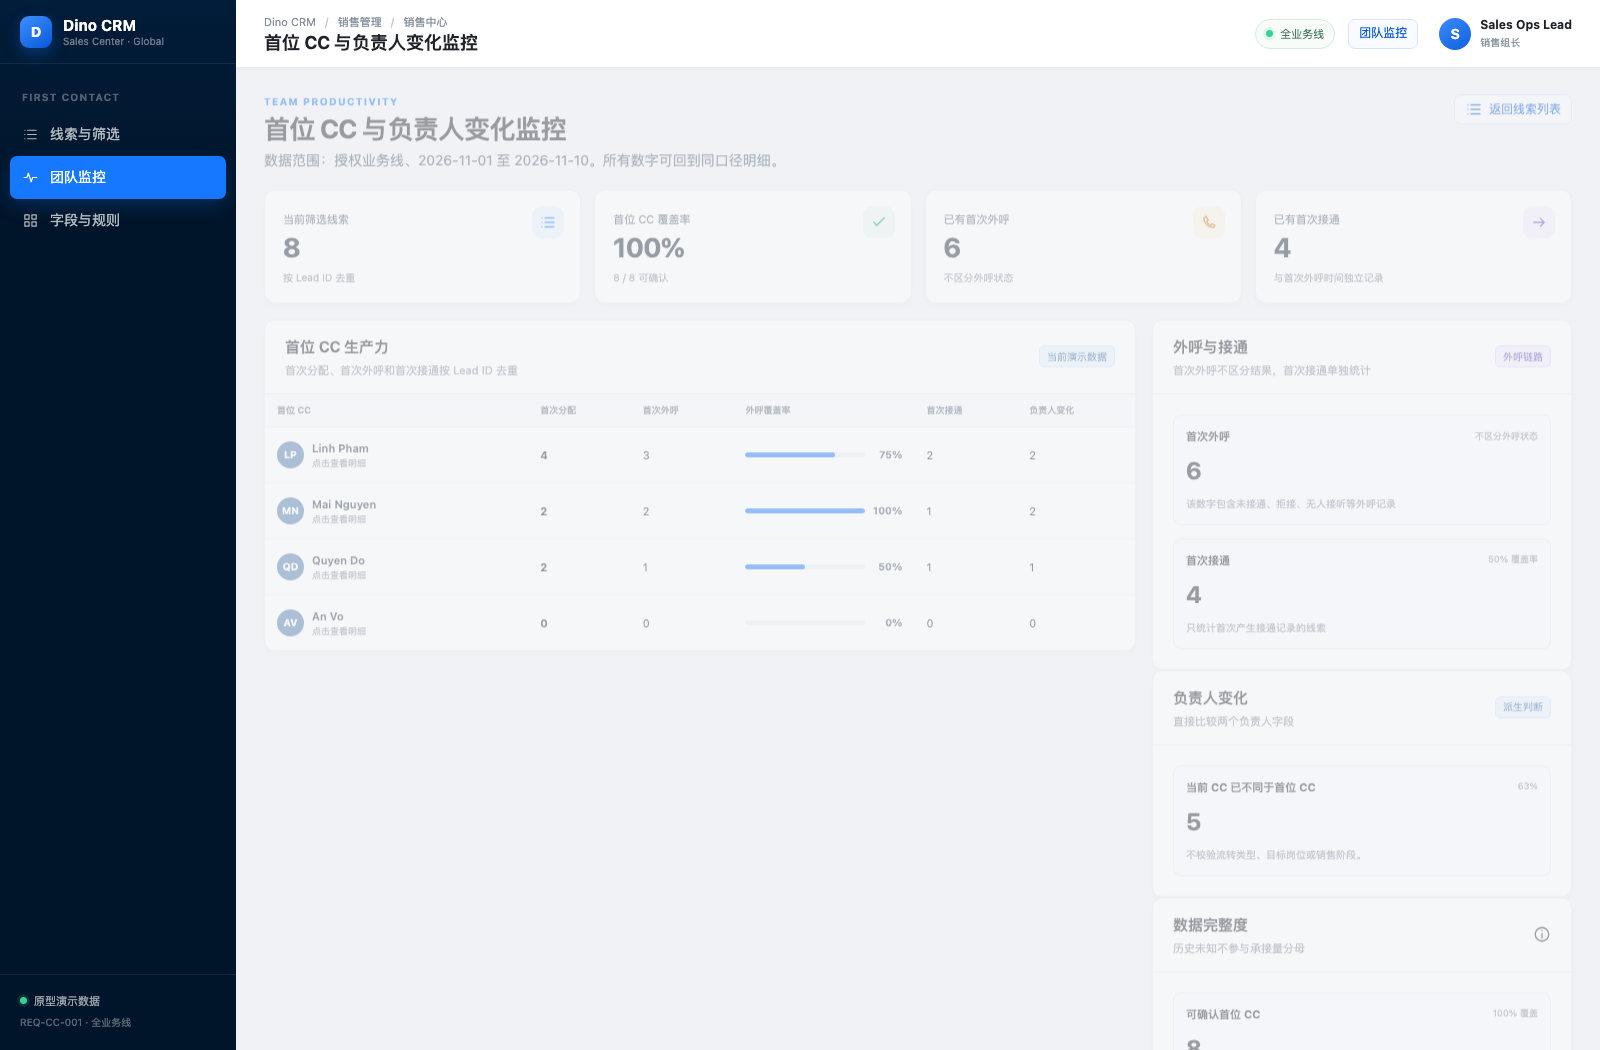
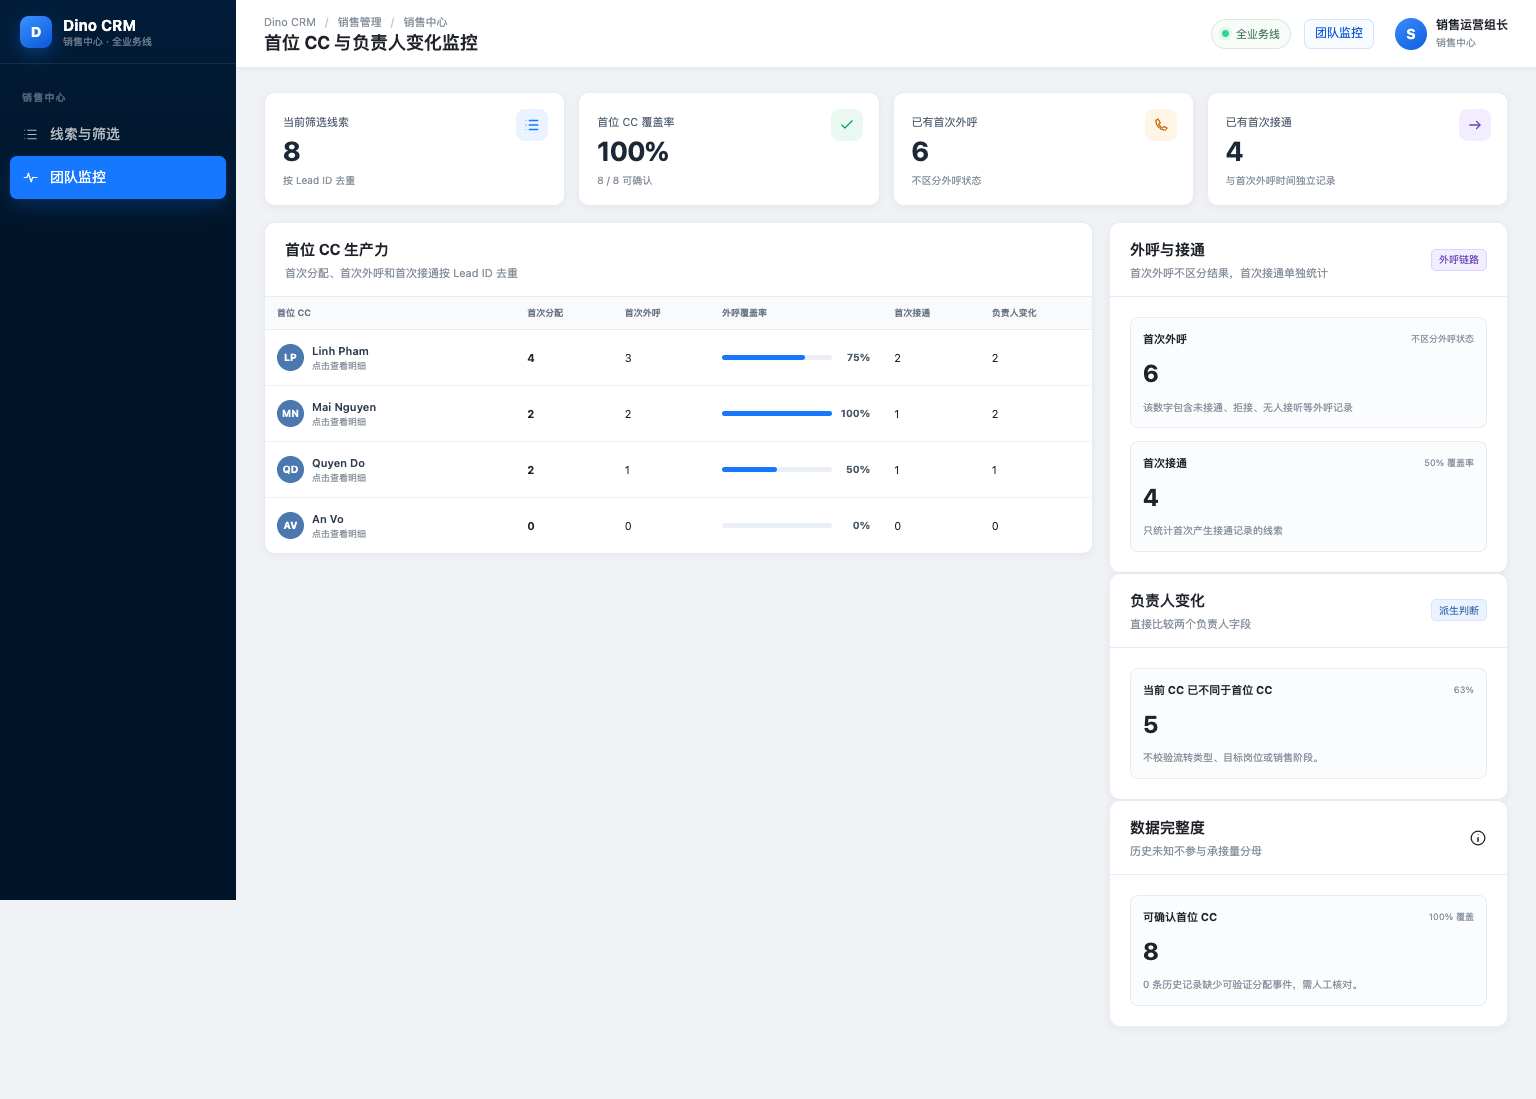
docs: restrict prototypes to production functionality

diff --git a/projects/first-contact/prototype/app.js b/projects/first-contact/prototype/app.js
@@ -163,7 +163,7 @@ const toast = document.querySelector("#toast");
 
 function routeFromHash() {
   const route = location.hash.replace(/^#\/?/, "");
-  return ["leads", "monitor", "rules"].includes(route) ? route : "leads";
+  return ["leads", "monitor"].includes(route) ? route : "leads";
 }
 
 function icon(name) {
@@ -181,13 +181,6 @@ function esc(value) {
 function initials(name) {
   if (!name) return "?";
   return name.split(/\s+/).slice(-2).map((part) => part[0]).join("").toUpperCase();
-}
-
-function pageHeading(eyebrow, title, copy, actions = "") {
-  return `<div class="page-heading">
-    <div><div class="eyebrow">${esc(eyebrow)}</div><h2>${esc(title)}</h2><p>${esc(copy)}</p></div>
-    ${actions ? `<div class="heading-actions">${actions}</div>` : ""}
-  </div>`;
 }
 
 function tag(text, kind = "neutral") {
@@ -254,29 +247,6 @@ function statCards(rows) {
     <article class="stat-card is-warning"><span class="stat-label">已有首次外呼</span><strong>${stats.outbound}</strong><small>不区分外呼状态</small><span class="stat-icon">${icon("phone")}</span></article>
     <article class="stat-card is-purple"><span class="stat-label">已有首次接通</span><strong>${stats.connected}</strong><small>与首次外呼时间独立记录</small><span class="stat-icon">${icon("arrow")}</span></article>
   </div>`;
-}
-
-function hero(rows) {
-  const stats = statsFor(rows);
-  return `<section class="hero">
-    <div class="hero-main">
-      <div>
-        <div class="eyebrow">GLOBAL SALES · FIRST CONTACT TRACE</div>
-        <h2>首次分配留下归属，外呼与接通分别留痕</h2>
-        <p>线索转入后续 CC 后，列表、下载和监控继续保留首位 CC；业务方通过当前 CC 是否等于首位 CC 直接判断负责人是否发生变化。</p>
-      </div>
-      <div class="hero-note"><span>当前视图可确认</span><strong>${stats.covered} 条</strong><small>${stats.missing} 条历史未知 · 不计入承接量</small></div>
-    </div>
-    <div class="handoff-rail" aria-label="首位联系人业务链路">
-      <div class="rail-node first"><i>01</i><div><strong>首次分配</strong>首位 CC 写入</div></div>
-      <div class="rail-arrow">${icon("arrow")}</div>
-      <div class="rail-node"><i>02</i><div><strong>首次外呼</strong>不区分外呼状态</div></div>
-      <div class="rail-arrow">${icon("arrow")}</div>
-      <div class="rail-node"><i>03</i><div><strong>首次接通</strong>独立记录时间</div></div>
-      <div class="rail-arrow">${icon("arrow")}</div>
-      <div class="rail-node"><i>04</i><div><strong>负责人比较</strong>首位 CC 与当前 CC</div></div>
-    </div>
-  </section>`;
 }
 
 function selectOptions(items, selected, allLabel) {
@@ -372,10 +342,7 @@ function renderLeads() {
   const start = (state.page - 1) * PAGE_SIZE;
   const pageRows = rows.slice(start, start + PAGE_SIZE);
   content.innerHTML = `<section class="page-enter">
-    ${pageHeading("SALES CENTER OVERVIEW", "首位联系人", "跨业务线围绕首位 CC、首次外呼、首次接通和负责人变化建立可筛选、可下载、可追溯的团队视图。", `<button class="btn btn-secondary btn-small" data-route="monitor">${icon("pulse")} 查看团队监控</button>`)}
-    ${hero(rows)}
     ${statCards(rows)}
-    <div class="notice">${icon("info")}<span><strong>当前列表已增加首位 CC。</strong> 首位 CC 是历史事实，不会随当前负责人改变；历史缺失记录不会被猜测回填。</span><button class="btn btn-quiet btn-small" data-route="rules">查看字段定义</button></div>
     <div class="view-tabs" role="tablist" aria-label="销售中心页签">
       <button class="view-tab ${state.tab === "pool" ? "is-active" : ""}" data-tab="pool">公海 <em>${VIEW_COUNTS.pool}</em></button>
       <button class="view-tab ${state.tab === "following" ? "is-active" : ""}" data-tab="following">我的跟进 <em>${VIEW_COUNTS.following}</em></button>
@@ -428,11 +395,10 @@ function renderMonitor() {
   const productivity = productivityRows();
   const connectedRate = stats.total ? Math.round((stats.connected / stats.total) * 100) : 0;
   content.innerHTML = `<section class="page-enter">
-    ${pageHeading("TEAM PRODUCTIVITY", "首位 CC 与负责人变化监控", "数据范围：授权业务线、2026-11-01 至 2026-11-10。所有数字可回到同口径明细。", `<button class="btn btn-secondary btn-small" data-route="leads">${icon("list")} 返回线索列表</button>`)}
     ${statCards(completeRows)}
     <div class="monitor-grid">
       <section class="card">
-        <div class="card-head"><div><h3>首位 CC 生产力</h3><p>首次分配、首次外呼和首次接通按 Lead ID 去重</p></div>${tag("当前演示数据", "info")}</div>
+        <div class="card-head"><div><h3>首位 CC 生产力</h3><p>首次分配、首次外呼和首次接通按 Lead ID 去重</p></div></div>
         <div class="table-wrap"><table class="agent-table">
           <thead><tr><th>首位 CC</th><th>首次分配</th><th>首次外呼</th><th>外呼覆盖率</th><th>首次接通</th><th>负责人变化</th></tr></thead>
           <tbody>${productivity.map((row) => `<tr data-agent="${esc(row.name)}">
@@ -461,56 +427,17 @@ function renderMonitor() {
         </section>
       </div>
     </div>
-    <div class="notice">${icon("info")}<span><strong>口径一致：</strong> 首次外呼按第一条外呼记录计算并保留所有状态；首次接通只在存在接通记录时写入；负责人变化通过当前 CC 与首位 CC 直接比较。</span><button class="btn btn-quiet btn-small" data-route="rules">查看计算规则</button></div>
-  </section>`;
-}
-
-function renderRules() {
-  content.innerHTML = `<section class="page-enter">
-    ${pageHeading("FIELD CONTRACT", "字段与业务规则", "把历史事实、当前状态和外部事件分开，保证列表、筛选、下载与监控不会互相矛盾。")}
-    <div class="definition-grid">
-      <article class="definition-card"><span class="number">FACT 01</span><h3>首位 CC</h3><p>线索进入销售中心后第一次取得归属的 CC。首次分配成功后永久保留，不随转派、掉库、回池或再领取变化。</p></article>
-      <article class="definition-card"><span class="number">FACT 02</span><h3>首次分配时间</h3><p>首位 CC 第一次取得线索归属的时间，与首位 CC 同时写入。</p></article>
-      <article class="definition-card"><span class="number">FACT 03</span><h3>首次外呼时间</h3><p>线索第一条外呼记录的时间。不区分接通、拒接、无人接听或其他外呼状态。</p></article>
-      <article class="definition-card"><span class="number">FACT 04</span><h3>首次接通时间</h3><p>线索第一次产生接通外呼记录的时间，与首次外呼时间独立记录。</p></article>
-      <article class="definition-card"><span class="number">FACT 05</span><h3>当前 CC 与负责人变化</h3><p>当前 CC 由领取、自动分配、转派或管理操作更新。当前 CC 与首位 CC 不同即表示负责人已发生变化，不增加流转校验。</p></article>
-      <article class="definition-card"><span class="number">FACT 06</span><h3>历史完整度</h3><p>只有可验证的分配和外呼历史才标为完整；缺失时显示历史未知，不允许拿当前 CC 倒推首位 CC。</p></article>
-      <article class="definition-card"><span class="number">FACT 07</span><h3>名称快照</h3><p>保留首次分配时的 CC 名称。人员离职或改名后仍可按历史名称筛选，并显示当前账号状态。</p></article>
-    </div>
-    <section class="card" style="margin-top:16px">
-      <div class="card-head"><div><h3>一次成功归属的数据写入</h3><p>首位事实和分配历史必须处于同一事务</p></div>${tag("幂等写入", "info")}</div>
-      <div class="rule-flow">
-        <div class="rule-step"><small>STEP 01</small><strong>首次分配</strong><span>写入首位 CC 和时间</span></div>
-        <div class="rule-step"><small>STEP 02</small><strong>首次外呼</strong><span>任何外呼状态均写入</span></div>
-        <div class="rule-step"><small>STEP 03</small><strong>首次接通</strong><span>存在接通记录时写入</span></div>
-        <div class="rule-step"><small>STEP 04</small><strong>更新当前 CC</strong><span>首位字段保持不变</span></div>
-        <div class="rule-step"><small>STEP 05</small><strong>直接比较</strong><span>当前 CC 是否等于首位 CC</span></div>
-      </div>
-    </section>
-    <section class="card">
-      <div class="card-head"><div><h3>关键边界</h3><p>最容易产生错误统计的场景</p></div></div>
-      <div class="card-body"><div class="rule-list">
-        <div class="rule-row"><strong>并发领取</strong><p>数据库唯一约束保证只有一个领取成功；只有成功事件可以写入首位 CC 和分配历史。</p></div>
-        <div class="rule-row"><strong>回池后再领取</strong><p>首位 CC 仍是第一次归属者；新领取人只成为当前 CC。回池不重置历史。</p></div>
-        <div class="rule-row"><strong>负责人是否变化</strong><p>直接比较当前 CC 与首位 CC：相同表示未变化，不同表示当前 CC 已发生变化。不新增流转字段或校验步骤。</p></div>
-        <div class="rule-row"><strong>历史缺失</strong><p>没有审计事件时不使用“最早可见通话”或“当前 CC”倒推。数据不完整比猜测更可解释。</p></div>
-        <div class="rule-row"><strong>离职与改名</strong><p><code>first_cc_id</code> 不变，展示首次名称快照；账号状态单独展示，不影响历史筛选。</p></div>
-        <div class="rule-row"><strong>筛选后下载</strong><p>下载使用完整筛选结果与当前权限，不受当前分页限制，也不能绕过筛选导出全量。</p></div>
-      </div></div>
-    </section>
   </section>`;
 }
 
 function render() {
   const titles = {
     leads: "我的跟进 · 首位联系人",
-    monitor: "首位 CC 与负责人变化监控",
-    rules: "字段与业务规则"
+    monitor: "首位 CC 与负责人变化监控"
   };
   document.querySelector("#page-title").textContent = titles[state.route];
   document.querySelectorAll(".nav-item").forEach((item) => item.classList.toggle("is-active", item.dataset.route === state.route));
   if (state.route === "monitor") renderMonitor();
-  else if (state.route === "rules") renderRules();
   else renderLeads();
 }
 

diff --git a/projects/first-contact/prototype/index.html b/projects/first-contact/prototype/index.html
@@ -3,8 +3,8 @@
 <head>
   <meta charset="UTF-8">
   <meta name="viewport" content="width=device-width, initial-scale=1.0">
-  <meta name="description" content="跨业务线首位联系人 PRD 交互原型">
-  <title>Dino CRM · First Contact</title>
+  <meta name="description" content="Dino CRM 首位联系人工作台">
+  <title>Dino CRM · 首位联系人</title>
   <link rel="icon" href="./favicon.svg" type="image/svg+xml">
   <link rel="stylesheet" href="./styles.css">
 </head>
@@ -32,25 +32,18 @@
         <div class="brand-mark">D</div>
         <div class="brand-copy">
           <strong>Dino CRM</strong>
-          <span>Sales Center · Global</span>
+          <span>销售中心 · 全业务线</span>
         </div>
       </div>
       <nav class="side-nav" aria-label="主导航">
-        <div class="nav-group-label">FIRST CONTACT</div>
+        <div class="nav-group-label">销售中心</div>
         <button class="nav-item is-active" data-route="leads">
           <svg><use href="#i-list"></use></svg><span>线索与筛选</span>
         </button>
         <button class="nav-item" data-route="monitor">
           <svg><use href="#i-pulse"></use></svg><span>团队监控</span>
         </button>
-        <button class="nav-item" data-route="rules">
-          <svg><use href="#i-grid"></use></svg><span>字段与规则</span>
-        </button>
       </nav>
-      <div class="sidebar-footer">
-        <div><i></i> 原型演示数据</div>
-        <span>REQ-CC-001 · 全业务线</span>
-      </div>
     </aside>
 
     <div class="workspace">
@@ -69,7 +62,7 @@
           <button class="btn btn-secondary btn-small" data-route="monitor">团队监控</button>
           <div class="account">
             <div class="avatar">S</div>
-            <div><strong>Sales Ops Lead</strong><span>销售组长</span></div>
+            <div><strong>销售运营组长</strong><span>销售中心</span></div>
           </div>
         </div>
       </header>

diff --git a/prompts/prototype-generation.md b/prompts/prototype-generation.md
@@ -1,0 +1,46 @@
+# 产品原型绘制提示词
+
+原型用于模拟上线后的真实产品界面，不是 PRD 的可视化排版。页面只保留用户上线后实际会看到和操作的内容。
+
+## 只展示上线后所需功能
+
+允许出现：
+
+- 产品正式导航、页面标题、页签和面包屑。
+- 用户实际使用的筛选、排序、搜索、表单、表格、按钮和详情。
+- 产品正式提供的指标、状态、字段、提示和异常反馈。
+- 真实业务需要的空态、加载态、失败态、权限态和二次确认。
+- 可操作的流程切换、详情抽屉、弹窗和提示消息。
+
+禁止出现：
+
+- PRD 式大标题、英文眉题和解释性副标题。
+- “本次新增”“当前视图可确认”“原型说明”等设计过程信息。
+- 业务背景、需求价值、规则说明、实现思路和流程叙事卡。
+- “字段定义”“查看规则”“PRD”“原型”“演示数据”等非生产入口。
+- 用大段 Hero、流程步骤、架构图或说明横幅替代真实页面控件。
+- 验收清单、测试入口、需求编号和技术注释。
+
+说明性内容留在 PRD。原型打开后应直接进入用户实际工作的默认页面。
+
+## 页面与交互
+
+- 首屏优先展示实际列表、表单或工作台，不先展示介绍页面。
+- 使用真实业务布局、数据密度、字段顺序和操作位置。
+- 筛选、排序、分页、导出、详情和异常反馈必须可操作。
+- 使用演示数据时，不在产品界面额外显示“演示数据”横幅。
+- 只有上线产品本身包含帮助说明时，才允许出现说明入口或 Tooltip。
+
+## 视觉要求
+
+- 视觉语言与目标产品保持一致，不加入汇报型排版。
+- 卡片用于承载真实业务信息，不用于讲需求故事。
+- 指标卡只在指标本身上线后可见时保留。
+- 每个页面都应是可直接给开发参考的产品画面，而不是 PRD 摘要。
+
+## 内部检查
+
+- 删除所有业务背景、价值说明、流程叙事和设计提示。
+- 页面是否可以从标题直接看出是上线后的真实功能。
+- 首屏是否直接进入实际工作，而不是先看介绍。
+- 不在原型中输出本检查清单。

diff --git a/prompts/prd-generation.md b/prompts/prd-generation.md
@@ -54,6 +54,15 @@
 - 只有用户明确回复“确认”“发布”或“上传 GitHub”后，才允许上传并发布。
 - 用户未确认时，不创建远端提交，不使用 GitHub API 绕过确认。
 
+## 原型绘制规则
+
+需要生成原型时，必须同时读取 [`prototype-generation.md`](prototype-generation.md)。
+
+- 原型只展示上线后用户实际看到和操作的功能。
+- 业务背景、需求价值、字段定义、流程叙事、原型提示和设计说明留在 PRD。
+- 不在产品界面上展示 PRD 标题、流程步骤、说明横幅或“演示数据”提示。
+- 原型首屏直接进入真实工作页面，不先放需求介绍页。
+
 ## 输出原则
 
 PRD 只回答产品问题：
@@ -85,6 +94,7 @@ PRD 只回答产品问题：
 - 是否列出新增、修改或复用的 RBAC 权限数据。
 - 是否移除了生成提示词、补充提示词和内部提示词路径。
 - 是否停在本地等待发布确认，而没有自动触发 GitHub 发布。
+- 原型是否只保留上线后的产品功能，没有 PRD 式说明内容。
 - 是否区分已确认、工作假设和待确认。
 - 是否删除了没有内容的空章节和重复描述。
 

diff --git a/AGENTS.md b/AGENTS.md
@@ -20,3 +20,10 @@
 - Do not include acceptance criteria, test cases, test plans, regression checklists, or Agent self-check sections in PRDs.
 - Do not display prompt names, supplementary prompt names, or prompt file paths inside a PRD.
 - Perform writing and consistency checks internally without adding them to the delivered PRD.
+
+## Prototype rules
+
+- A prototype must show only the product interface and capabilities available after launch.
+- Do not show PRD titles, requirement context, value statements, flow narratives, design notes, field-definition pages, prototype banners, demo-data banners, or other explanatory UI inside the product surface.
+- Open directly on the operational page users will use.
+- Keep explanations in the PRD; use `prompts/prototype-generation.md` for prototypes.

diff --git a/prompts/README.md b/prompts/README.md
@@ -6,6 +6,8 @@
 
 所有 PRD 和原型默认执行本地优先：生成、构建、验证后在本地等待确认，未经用户明确同意不得上传 GitHub 或触发 Pages。
 
+生成原型时还必须读取 [`prototype-generation.md`](prototype-generation.md)，只展示上线后真实产品界面，不把 PRD 说明、流程叙事或原型提示画进产品页面。
+
 ## 路由原则
 
 1. 先问“这个需求真正改变的是什么结果”，不是根据提到了哪个页面或按钮选类型。

diff --git a/README.md b/README.md
@@ -131,5 +131,6 @@ python3 build_prd_pages.py
 - 不写验收标准、测试用例、测试计划或回归清单，验收由测试负责。
 - 写作检查由 Agent 在交付前内部完成，不写入 PRD。
 - 不在 PRD 中展示生成提示词、补充提示词或内部提示词文件路径。
+- 原型只展示上线后实际功能和操作界面；PRD 标题、背景说明、流程叙事、字段定义和原型提示不进入产品页面。
 - 已确认、工作假设和待确认分开写。
 

diff --git a/projects/first-contact/prototype/README.md b/projects/first-contact/prototype/README.md
@@ -17,6 +17,5 @@ python3 -m http.server 4173 --bind 127.0.0.1
 |---|---|
 | `#/leads` | 销售中心线索列表、首位 CC 筛选与下载 |
 | `#/monitor` | 首位 CC、首次外呼、首次接通和负责人变化监控 |
-| `#/rules` | 字段定义、分配规则和历史边界 |
 
 所有姓名、账号和线索均为演示数据。

diff --git a/prompts/07-user-experience-journey.md b/prompts/07-user-experience-journey.md
@@ -2,6 +2,8 @@
 
 先读取 [`prd-generation.md`](prd-generation.md)。
 
+绘制用户端原型时同时读取 [`prototype-generation.md`](prototype-generation.md)，只展示上线后的真实页面和可操作功能。
+
 ## 适用信号
 
 - App、C 端页面、邀请、注册、登录、支付、通知或用户自助操作。
